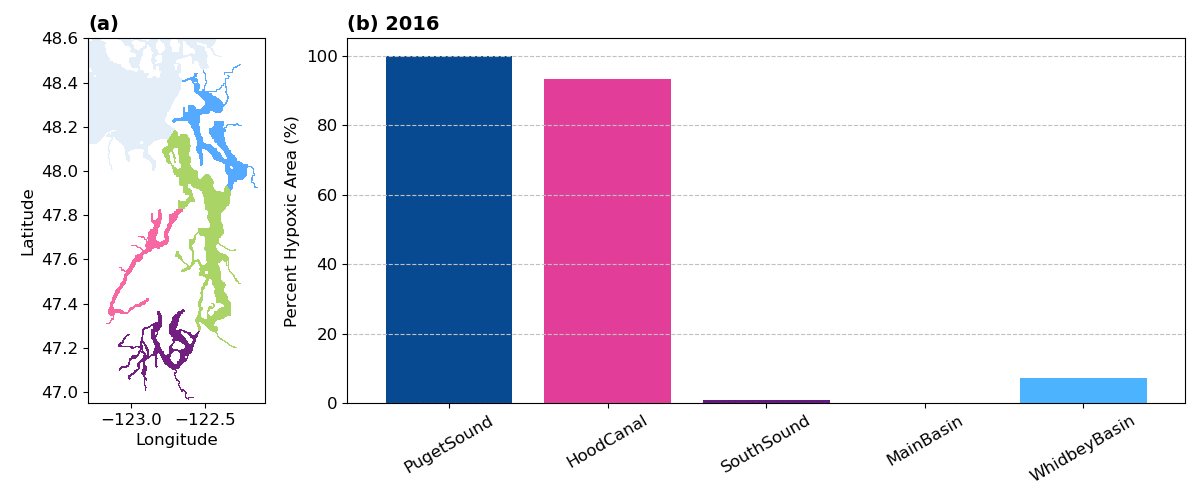
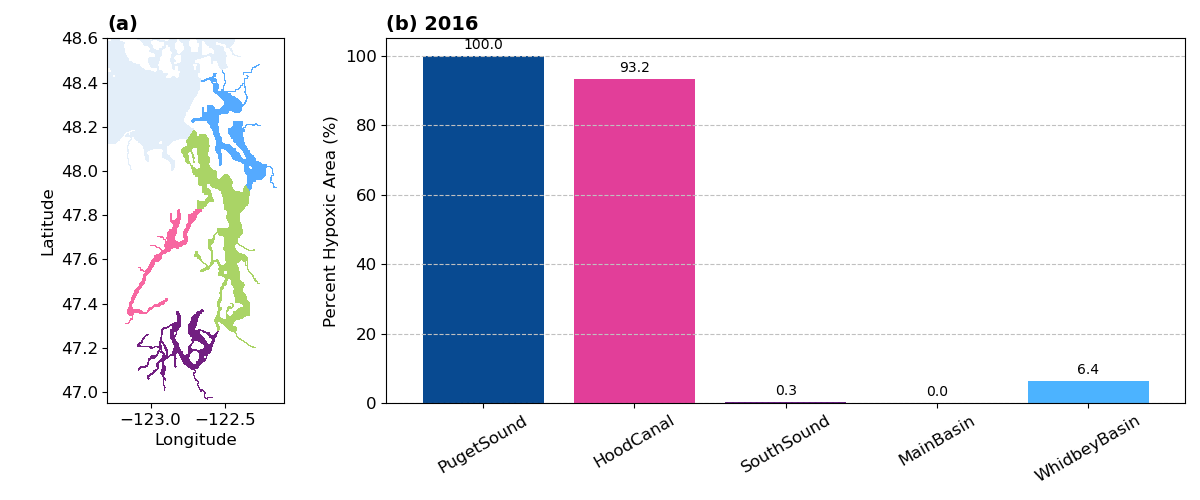
edit hyparea_subbasin_percent_comparison.py

diff --git a/hypvol_for_intrmdl_cmprsn/hyparea_subbasin_percent_comparison.py b/hypvol_for_intrmdl_cmprsn/hyparea_subbasin_percent_comparison.py
@@ -192,14 +192,16 @@ for year in years:
         key = gtagex + region + subbasin + year
         hyp_area_tot = np.nansum(hyp_area[key]) # total hypoxic area for subbasin and year
         
-        hyp_area_percent = (hyp_area_tot / hyp_area_PS_tot) * 100
+        # hyp_area_percent = (hyp_area_tot / hyp_area_PS_tot) * 100
+        hyp_area_percent = (hyp_area_tot / PS_area) * 100
         hyp_area_percents.append(hyp_area_percent)
 
     bars = ax1.bar(subbasins, hyp_area_percents, color=[subbasin_colors[subbasin] for subbasin in subbasins])
     ax1.bar_label(bars, fmt="%.1f", padding=3, fontsize=10)
     
     # axis labels
-    ax1.set_ylabel('Percent Hypoxic Area (%)', fontsize=12)
+    #ax1.set_ylabel('Percent Hypoxic Area (%)', fontsize=12)
+    ax1.set_ylabel('Hypoxic Area as Percent of Puget Sound Area (%)', fontsize=12)
 
     # bar chart formatting
     ax1.grid(True, axis='y', color='silver', linestyle='--')
@@ -210,7 +212,8 @@ for year in years:
 
     plt.tight_layout()
     # plt.show()
-    plt.savefig(f'hyparea_subbasin_percent_{year}_fig.png')
+    #plt.savefig(f'hyparea_subbasin_percent_{year}_fig.png')
+    plt.savefig(f'hyparea_subbasin_percent_tot_{year}_fig.png')
     plt.close(fig)
     
 print('Done')
